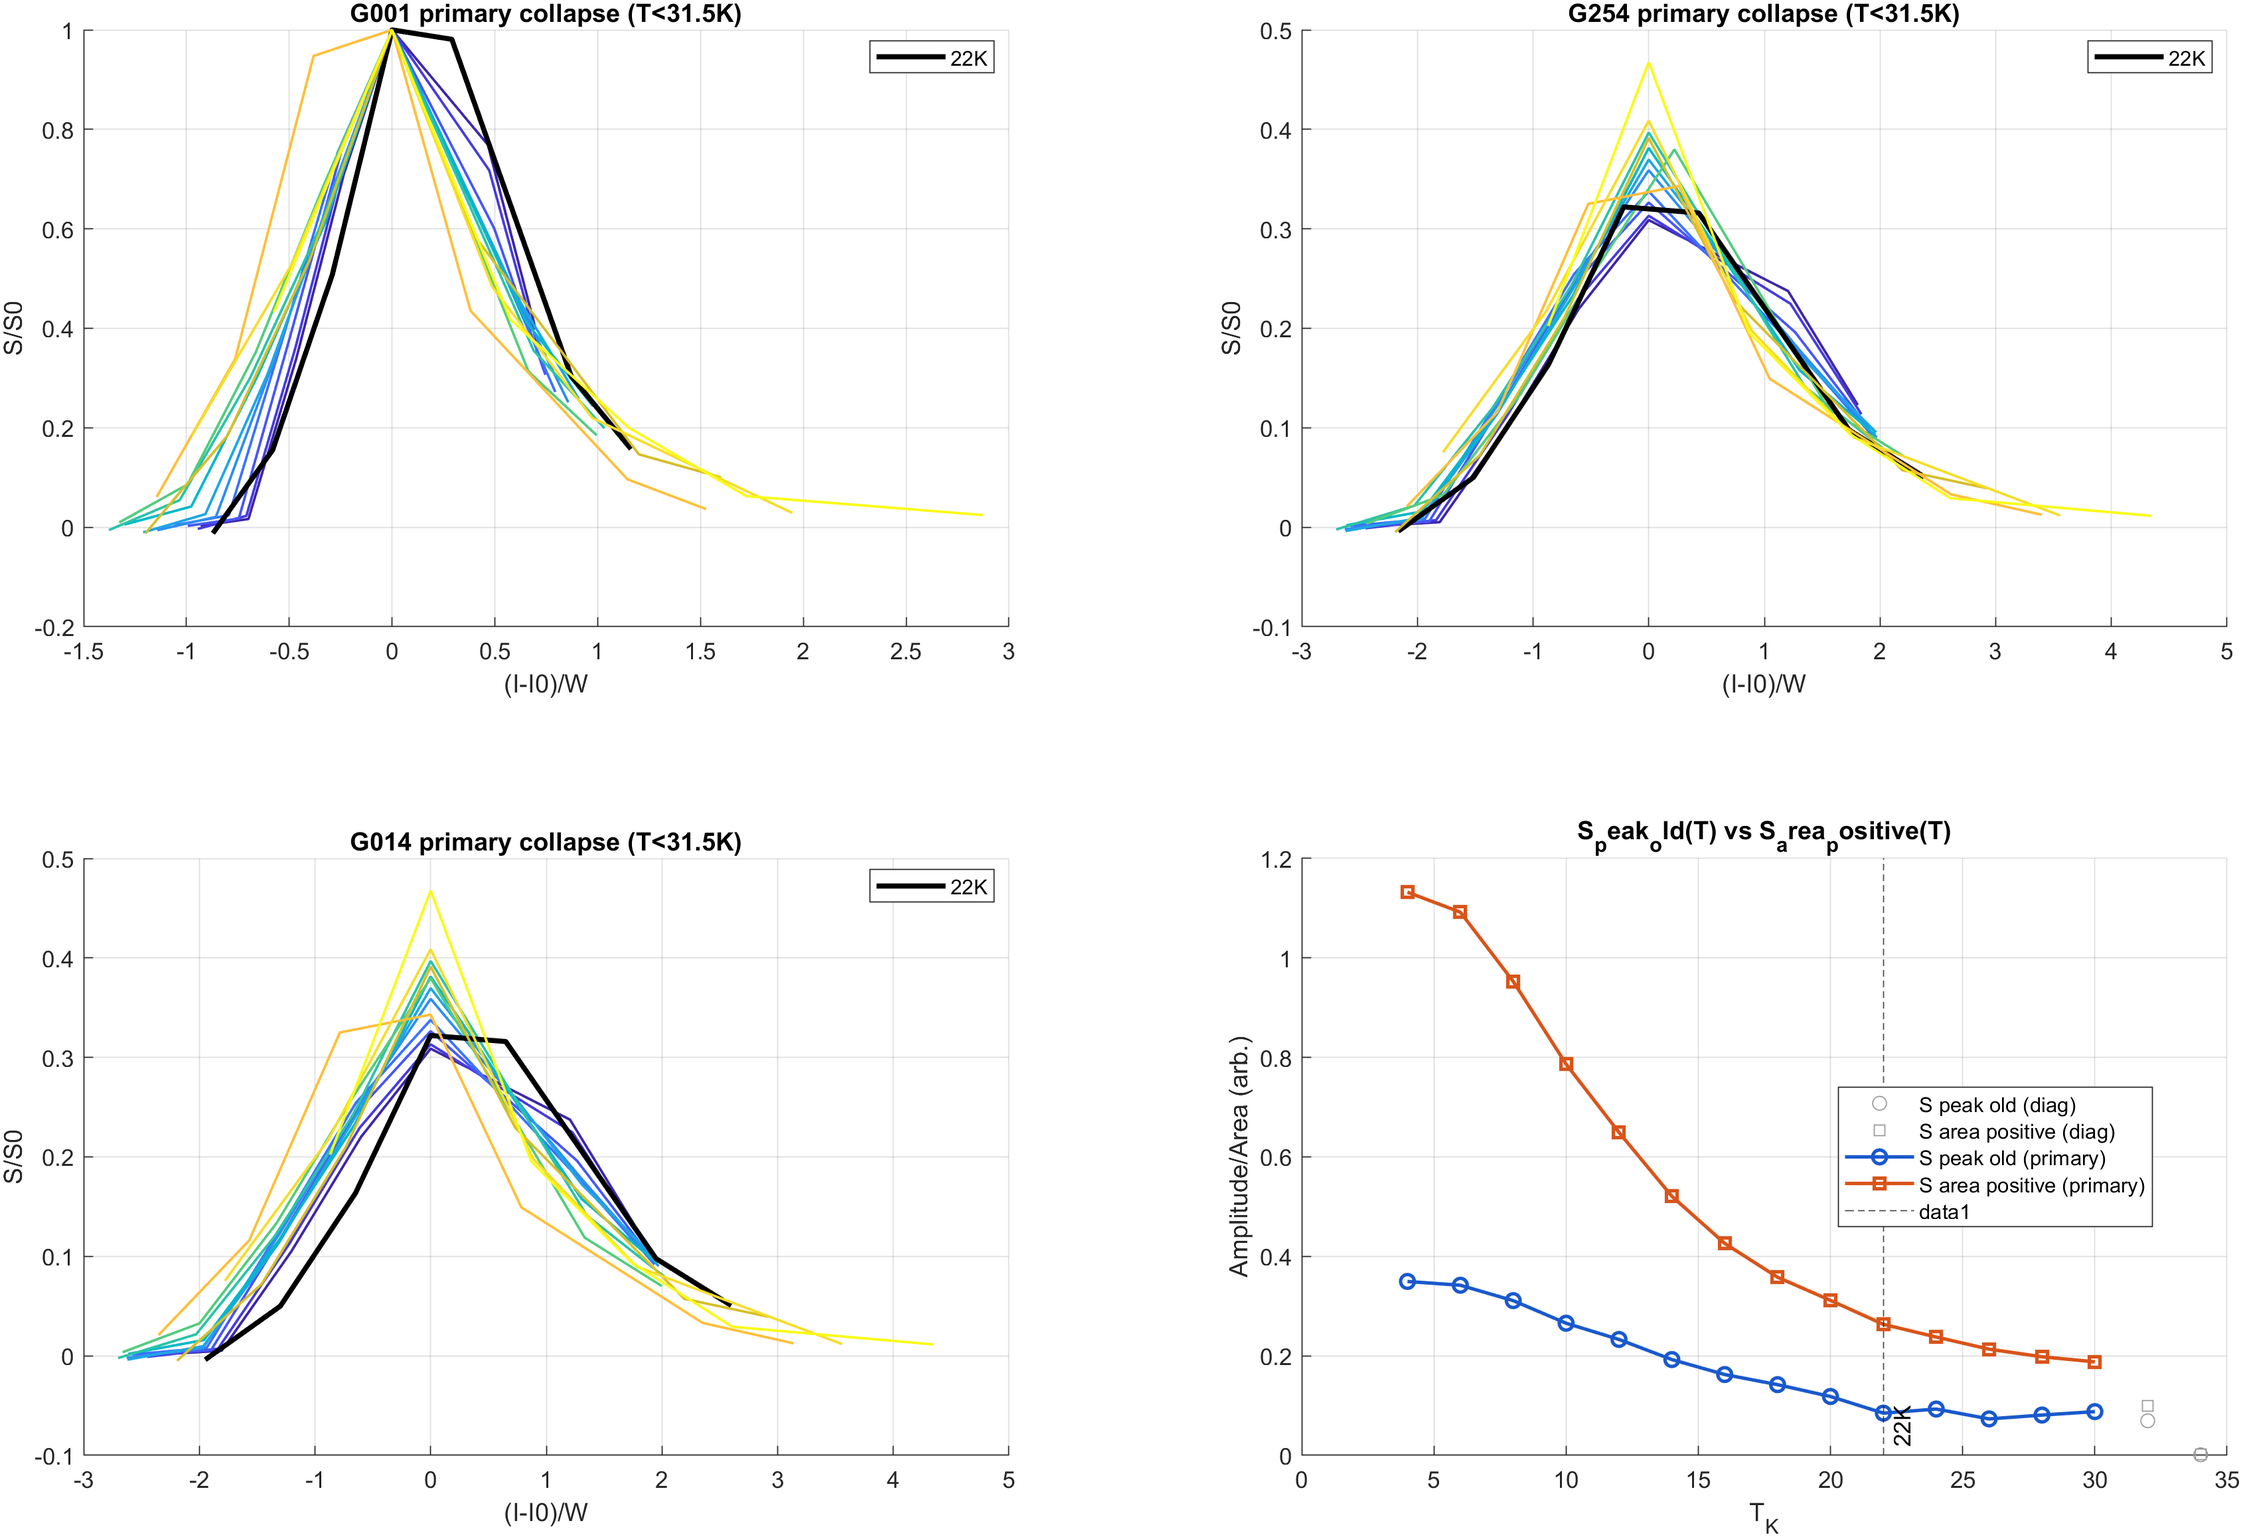
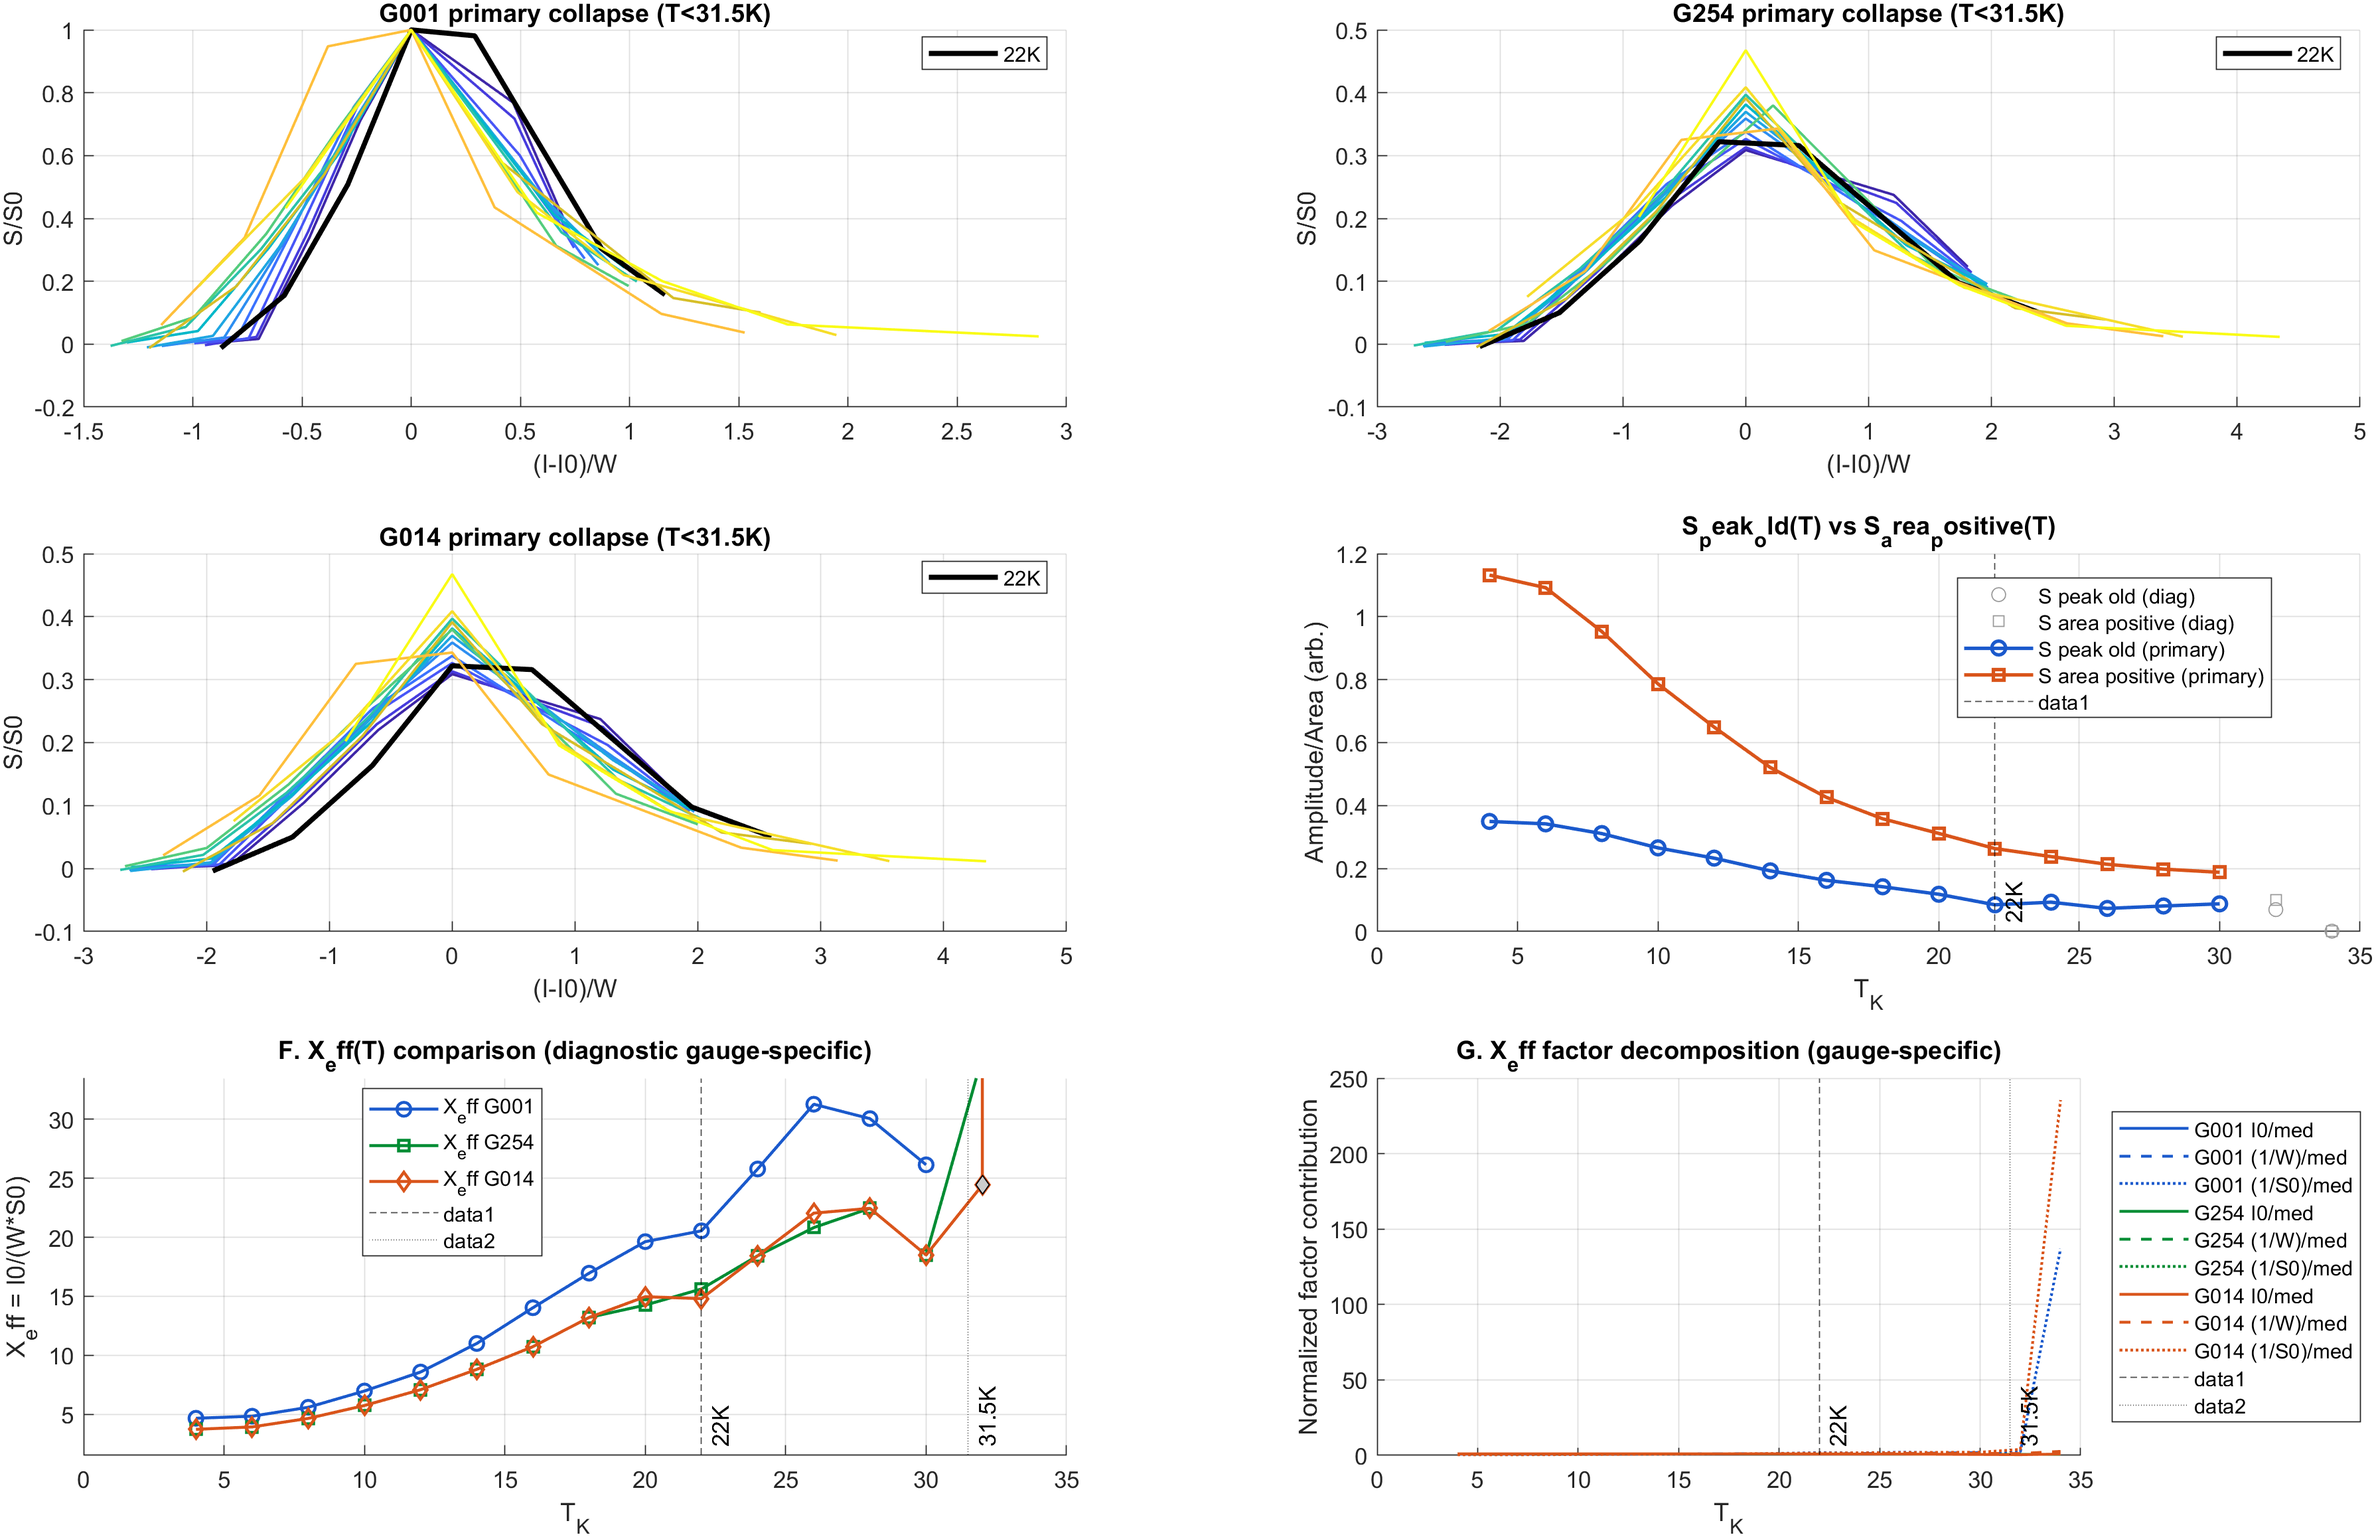
Update Switching gauge atlas preview artifacts
Made-with: Cursor

diff --git a/scripts/run_switching_gauge_atlas_preview.m b/scripts/run_switching_gauge_atlas_preview.m
@@ -45,6 +45,12 @@ verdictKeys = { ...
     'G014_LESS_SMOOTHED_COMPARATOR_INCLUDED'
     'S_AREA_POSITIVE_DOMINATES_TOP15'
     'PREVIEW_FIGURE_WRITTEN'
+    'X_EFF_DECOMPOSITION_INCLUDED'
+    'X_EFF_G001_COMPUTED'
+    'X_EFF_G254_COMPUTED'
+    'X_EFF_G014_COMPUTED'
+    'X_EFF_PRIMARY_DOMAIN_AXIS_SCALING'
+    'X_EFF_LABEL_USED'
     'G254_CANONICAL_COORDINATE_CLAIMED'
     'G014_CANONICAL_COORDINATE_CLAIMED'
     'X_CANON_CLAIMED'
@@ -53,6 +59,12 @@ verdictKeys = { ...
     'SAFE_TO_WRITE_SCALING_CLAIM'
     'CROSS_MODULE_SYNTHESIS_PERFORMED'};
 verdictVals = { ...
+    'NO'
+    'NO'
+    'NO'
+    'NO'
+    'NO'
+    'NO'
     'NO'
     'NO'
     'NO'
@@ -231,7 +243,6 @@ try
     end
     cmpTbl = metricsTbl(rows, :);
     cmpTbl = sortrows(cmpTbl, 'combo_id');
-    writetable(cmpTbl, baselineVsPath);
 
     finiteMask = isfinite(metricsTbl.primary_metric_mean_std) & isfinite(metricsTbl.high_primary_metric_mean_std) & metricsTbl.primary_valid_curves > 0;
     finiteTbl = metricsTbl(finiteMask, :);
@@ -266,7 +277,50 @@ try
         verdictVals{strcmp(verdictKeys,'S_AREA_POSITIVE_DOMINATES_TOP15')} = {'YES'};
     end
 
-    fig = figure('Visible', 'off', 'Position', [100 100 1600 1200]);
+    xeffG001 = NaN(nT,1);
+    xeffG254 = NaN(nT,1);
+    xeffG014 = NaN(nT,1);
+    for it = 1:nT
+        iOld = perT.I_peak_old(it);
+        iSm = perT.I_peak_smoothed_across_T(it);
+        wF = perT.W_FWHM_crossing(it);
+        wS = perT.W_sigma_positive(it);
+        sPk = perT.S_peak_old(it);
+        sAr = perT.S_area_positive(it);
+        if isfinite(iOld) && isfinite(wF) && isfinite(sPk) && wF > 0 && abs(sPk) > 1e-15
+            xeffG001(it) = iOld / (wF * sPk);
+        end
+        if isfinite(iSm) && isfinite(wS) && isfinite(sAr) && wS > 0 && abs(sAr) > 1e-15
+            xeffG254(it) = iSm / (wS * sAr);
+        end
+        if isfinite(iOld) && isfinite(wS) && isfinite(sAr) && wS > 0 && abs(sAr) > 1e-15
+            xeffG014(it) = iOld / (wS * sAr);
+        end
+    end
+
+    baseVs = table();
+    baseVs.T_K = perT.T_K;
+    baseVs.X_eff_G001 = xeffG001;
+    baseVs.X_eff_G254 = xeffG254;
+    baseVs.X_eff_G014 = xeffG014;
+    baseVs.ratio_X_G254_over_G001 = xeffG254 ./ xeffG001;
+    baseVs.ratio_X_G014_over_G001 = xeffG014 ./ xeffG001;
+    baseVs.delta_X_G254_minus_G001 = xeffG254 - xeffG001;
+    baseVs.delta_X_G014_minus_G001 = xeffG014 - xeffG001;
+    writetable(baseVs, baselineVsPath);
+
+    if any(isfinite(xeffG001))
+        verdictVals{strcmp(verdictKeys,'X_EFF_G001_COMPUTED')} = {'YES'};
+    end
+    if any(isfinite(xeffG254))
+        verdictVals{strcmp(verdictKeys,'X_EFF_G254_COMPUTED')} = {'YES'};
+    end
+    if any(isfinite(xeffG014))
+        verdictVals{strcmp(verdictKeys,'X_EFF_G014_COMPUTED')} = {'YES'};
+    end
+    verdictVals{strcmp(verdictKeys,'X_EFF_LABEL_USED')} = {'YES'};
+
+    fig = figure('Visible', 'off', 'Position', [100 100 1700 1400]);
 
     gaugeIds = {'G001','G254','G014'};
     gaugeI0 = {'I_peak_old','I_peak_smoothed_across_T','I_peak_old'};
@@ -274,7 +328,7 @@ try
     gaugeS0 = {'S_peak_old','S_area_positive','S_area_positive'};
 
     for p = 1:3
-        subplot(2,2,p);
+        subplot(3,2,p);
         hold on;
         primaryIdx = find(perT.T_K < 31.5);
         if isempty(primaryIdx)
@@ -318,7 +372,7 @@ try
         hold off;
     end
 
-    subplot(2,2,4);
+    subplot(3,2,4);
     hold on;
     prim = perT.T_K < 31.5;
     diagMask = ~prim;
@@ -333,6 +387,80 @@ try
     title('S_peak_old(T) vs S_area_positive(T)');
     legend('Location', 'best');
     hold off;
+
+    subplot(3,2,5);
+    hold on;
+    plot(perT.T_K, xeffG001, 'o-', 'Color', [0.10 0.35 0.80], 'LineWidth', 1.3, 'DisplayName', 'X_eff G001');
+    plot(perT.T_K, xeffG254, 's-', 'Color', [0.00 0.55 0.20], 'LineWidth', 1.3, 'DisplayName', 'X_eff G254');
+    plot(perT.T_K, xeffG014, 'd-', 'Color', [0.85 0.33 0.10], 'LineWidth', 1.3, 'DisplayName', 'X_eff G014');
+    xline(22, '--k', '22K', 'LabelVerticalAlignment', 'bottom');
+    xline(31.5, ':k', '31.5K', 'LabelVerticalAlignment', 'bottom');
+    d32 = abs(perT.T_K - 32) < 1e-6;
+    d34 = abs(perT.T_K - 34) < 1e-6;
+    if any(d32)
+        plot(perT.T_K(d32), xeffG001(d32), 'ko', 'MarkerFaceColor', [0.8 0.8 0.8], 'HandleVisibility', 'off');
+        plot(perT.T_K(d32), xeffG254(d32), 'ks', 'MarkerFaceColor', [0.8 0.8 0.8], 'HandleVisibility', 'off');
+        plot(perT.T_K(d32), xeffG014(d32), 'kd', 'MarkerFaceColor', [0.8 0.8 0.8], 'HandleVisibility', 'off');
+    end
+    if any(d34)
+        plot(perT.T_K(d34), xeffG001(d34), 'ko', 'MarkerFaceColor', [0.65 0.65 0.65], 'HandleVisibility', 'off');
+        plot(perT.T_K(d34), xeffG254(d34), 'ks', 'MarkerFaceColor', [0.65 0.65 0.65], 'HandleVisibility', 'off');
+        plot(perT.T_K(d34), xeffG014(d34), 'kd', 'MarkerFaceColor', [0.65 0.65 0.65], 'HandleVisibility', 'off');
+    end
+    primX = perT.T_K < 31.5;
+    yPrim = [xeffG001(primX); xeffG254(primX); xeffG014(primX)];
+    yPrim = yPrim(isfinite(yPrim));
+    if ~isempty(yPrim)
+        yLo = min(yPrim);
+        yHi = max(yPrim);
+        if yHi <= yLo
+            yHi = yLo + 1.0;
+        end
+        pad = 0.08 * (yHi - yLo);
+        ylim([yLo - pad, yHi + pad]);
+        verdictVals{strcmp(verdictKeys,'X_EFF_PRIMARY_DOMAIN_AXIS_SCALING')} = {'YES'};
+    end
+    grid on;
+    xlabel('T_K');
+    ylabel('X_eff = I0/(W*S0)');
+    title('F. X_eff(T) comparison (diagnostic gauge-specific)');
+    legend('Location', 'best');
+    hold off;
+
+    subplot(3,2,6);
+    hold on;
+    primMask = perT.T_K < 31.5;
+    medI001 = median(perT.I_peak_old(primMask & isfinite(perT.I_peak_old)));
+    medW001 = median(perT.W_FWHM_crossing(primMask & isfinite(perT.W_FWHM_crossing) & perT.W_FWHM_crossing > 0));
+    medS001 = median(perT.S_peak_old(primMask & isfinite(perT.S_peak_old) & abs(perT.S_peak_old) > 1e-15));
+    medI254 = median(perT.I_peak_smoothed_across_T(primMask & isfinite(perT.I_peak_smoothed_across_T)));
+    medW254 = median(perT.W_sigma_positive(primMask & isfinite(perT.W_sigma_positive) & perT.W_sigma_positive > 0));
+    medS254 = median(perT.S_area_positive(primMask & isfinite(perT.S_area_positive) & abs(perT.S_area_positive) > 1e-15));
+    medI014 = median(perT.I_peak_old(primMask & isfinite(perT.I_peak_old)));
+    medW014 = medW254;
+    medS014 = medS254;
+
+    plot(perT.T_K, perT.I_peak_old ./ medI001, '-', 'Color', [0.10 0.35 0.80], 'LineWidth', 1.2, 'DisplayName', 'G001 I0/med');
+    plot(perT.T_K, (1 ./ perT.W_FWHM_crossing) ./ (1 / medW001), '--', 'Color', [0.10 0.35 0.80], 'LineWidth', 1.2, 'DisplayName', 'G001 (1/W)/med');
+    plot(perT.T_K, (1 ./ perT.S_peak_old) ./ (1 / medS001), ':', 'Color', [0.10 0.35 0.80], 'LineWidth', 1.2, 'DisplayName', 'G001 (1/S0)/med');
+
+    plot(perT.T_K, perT.I_peak_smoothed_across_T ./ medI254, '-', 'Color', [0.00 0.55 0.20], 'LineWidth', 1.2, 'DisplayName', 'G254 I0/med');
+    plot(perT.T_K, (1 ./ perT.W_sigma_positive) ./ (1 / medW254), '--', 'Color', [0.00 0.55 0.20], 'LineWidth', 1.2, 'DisplayName', 'G254 (1/W)/med');
+    plot(perT.T_K, (1 ./ perT.S_area_positive) ./ (1 / medS254), ':', 'Color', [0.00 0.55 0.20], 'LineWidth', 1.2, 'DisplayName', 'G254 (1/S0)/med');
+
+    plot(perT.T_K, perT.I_peak_old ./ medI014, '-', 'Color', [0.85 0.33 0.10], 'LineWidth', 1.2, 'DisplayName', 'G014 I0/med');
+    plot(perT.T_K, (1 ./ perT.W_sigma_positive) ./ (1 / medW014), '--', 'Color', [0.85 0.33 0.10], 'LineWidth', 1.2, 'DisplayName', 'G014 (1/W)/med');
+    plot(perT.T_K, (1 ./ perT.S_area_positive) ./ (1 / medS014), ':', 'Color', [0.85 0.33 0.10], 'LineWidth', 1.2, 'DisplayName', 'G014 (1/S0)/med');
+
+    xline(22, '--k', '22K', 'LabelVerticalAlignment', 'bottom');
+    xline(31.5, ':k', '31.5K', 'LabelVerticalAlignment', 'bottom');
+    grid on;
+    xlabel('T_K');
+    ylabel('Normalized factor contribution');
+    title('G. X_eff factor decomposition (gauge-specific)');
+    legend('Location', 'eastoutside');
+    hold off;
+    verdictVals{strcmp(verdictKeys,'X_EFF_DECOMPOSITION_INCLUDED')} = {'YES'};
 
     exportgraphics(fig, figurePath, 'Resolution', 250);
     close(fig);
@@ -360,6 +488,7 @@ try
     fprintf(fid, '- G001 = I_peak_old + W_FWHM_crossing + S_peak_old\n');
     fprintf(fid, '- G254 = I_peak_smoothed_across_T + W_sigma_positive + S_area_positive\n');
     fprintf(fid, '- G014 = I_peak_old + W_sigma_positive + S_area_positive\n\n');
+    fprintf(fid, 'X_eff interpretation used: X_eff[I0,W,S0] = I0/(W*S0), gauge-specific diagnostic only (not canonical coordinate).\n\n');
     fprintf(fid, '## Best-by-regime reference\n');
     if height(bestTbl) > 0
         for i = 1:height(bestTbl)
@@ -371,6 +500,10 @@ try
     fprintf(fid, '\n## Top15 finite summary\n');
     fprintf(fid, '- rows: %d\n', height(top15));
     fprintf(fid, '- S_area_positive dominates top15: %s\n', string(statusTbl.verdict_value(statusTbl.verdict_key=="S_AREA_POSITIVE_DOMINATES_TOP15")));
+    fprintf(fid, '\n## X_eff summary\n');
+    fprintf(fid, '- finite X_eff G001 points: %d\n', sum(isfinite(xeffG001)));
+    fprintf(fid, '- finite X_eff G254 points: %d\n', sum(isfinite(xeffG254)));
+    fprintf(fid, '- finite X_eff G014 points: %d\n', sum(isfinite(xeffG014)));
     fprintf(fid, '\n## Verdicts\n');
     for i = 1:height(statusTbl)
         fprintf(fid, '- %s=%s\n', statusTbl.verdict_key(i), statusTbl.verdict_value(i));
